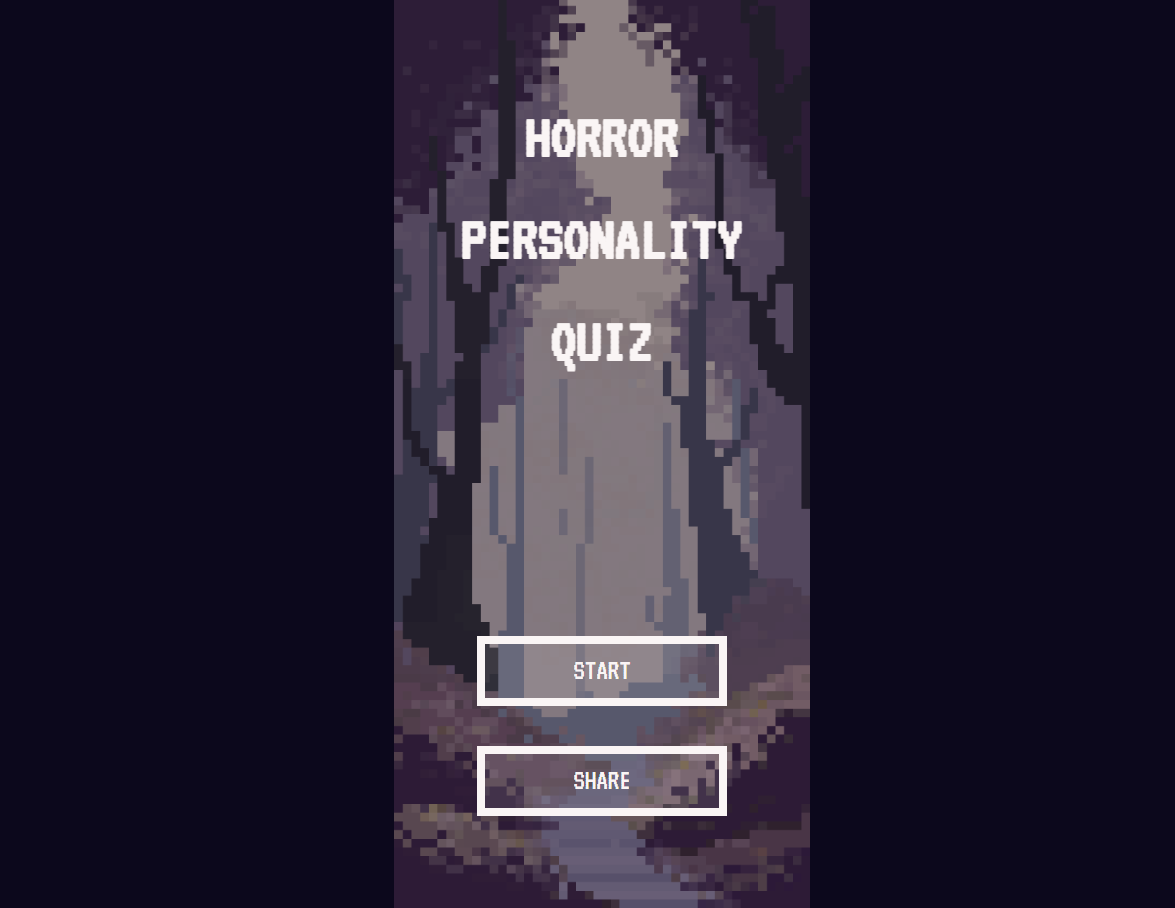
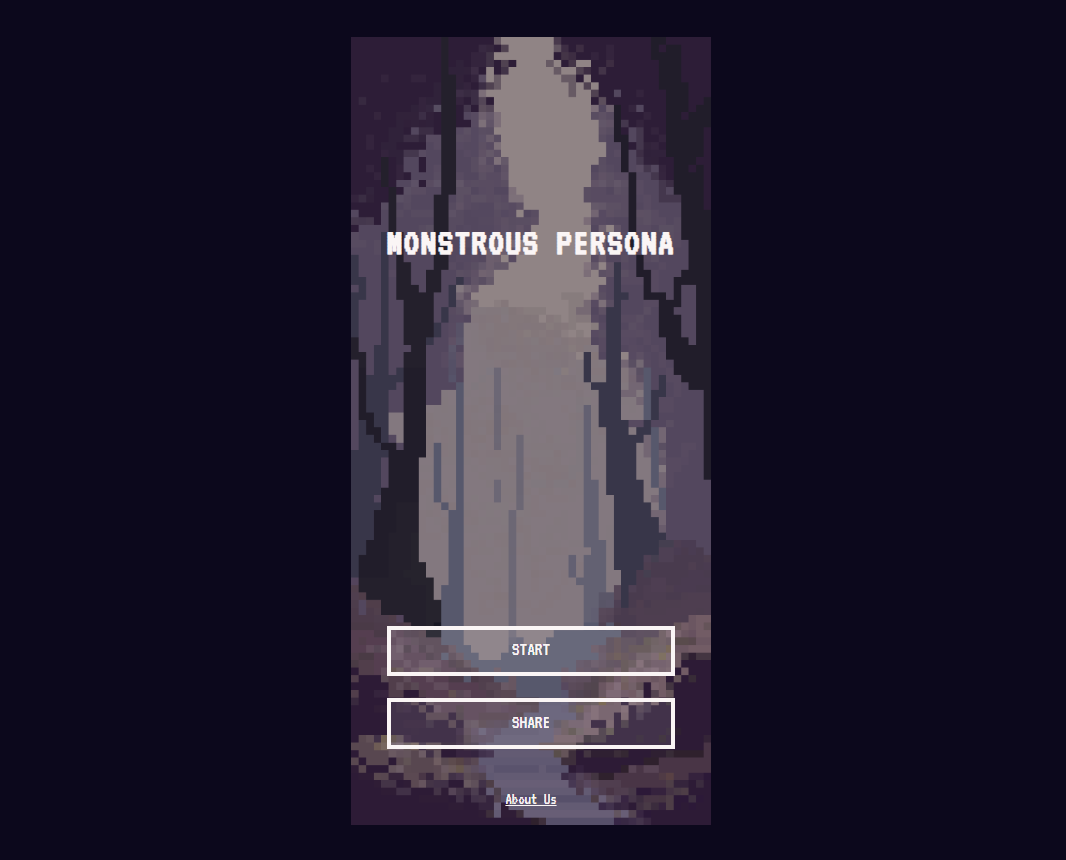
updated pics, horrorQuiz complete

Changed region(s): [[0.3096, 0.0, 0.712, 1.0]]

diff --git a/index.html b/index.html
@@ -15,6 +15,20 @@
   <main>
     <!-- each project section, ordered chronologically with most recent at top -->
 
+    <!-- Monstrous Persona Quiz -->
+    <section class="section">
+      <div class="centered-box fade-in">
+        <img src="images/horrorQuiz.png" alt="Monstrous Persona Sample Screenshot">
+        <h1>2024</h1>
+        <h2>MONSTROUS PERSONA QUIZ</h2>
+        <h3> A fun adventure-style horror-themed monster persona quiz with original art. 
+          Created using Aseprite, HTML, Javascript, and CSS with 2 friends.</h3>
+        <hr />
+        <a href="https://chiuya.github.io/personalityQ/" 
+        target="_blank">LINK</a>
+      </div>
+    </section>
+
     <!-- Homebound Bug -->
     <section class="section">
         <div class="centered-box fade-in">
@@ -70,20 +84,6 @@
       target="_blank">DEMO</a>
       <a href="https://drive.google.com/file/d/1F-HQjNL3K3jTAHj7VIO0LPVKf83EouE9/view?usp=sharing" 
       target="_blank">TRY IT ON WINDOWS</a>
-    </div>
-  </section>
-
-  <!-- Horror Personality Quiz -->
-  <section class="section">
-    <div class="centered-box fade-in">
-      <img src="images/horrorQuiz.png" alt="Horror Quiz Sample Screenshot">
-      <h1>Work in Progress</h1>
-      <h2>HORROR PERSONALITY QUIZ</h2>
-      <h3> A horror-themed personality quiz with original art. 
-        Created using Aseprite, HTML, Javascript, and CSS with 2 friends.</h3>
-      <hr />
-      <a href="https://chiuya.github.io/personalityQ/" 
-      target="_blank">LINK</a>
     </div>
   </section>
 
